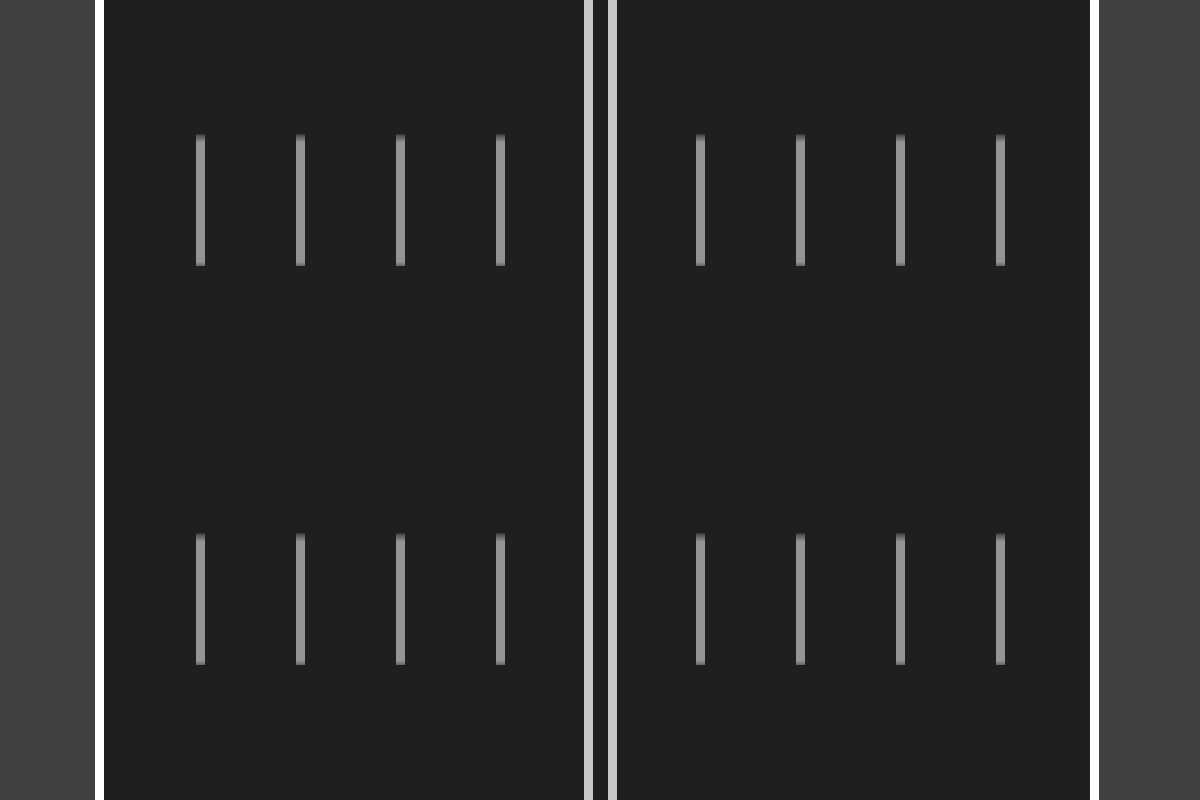
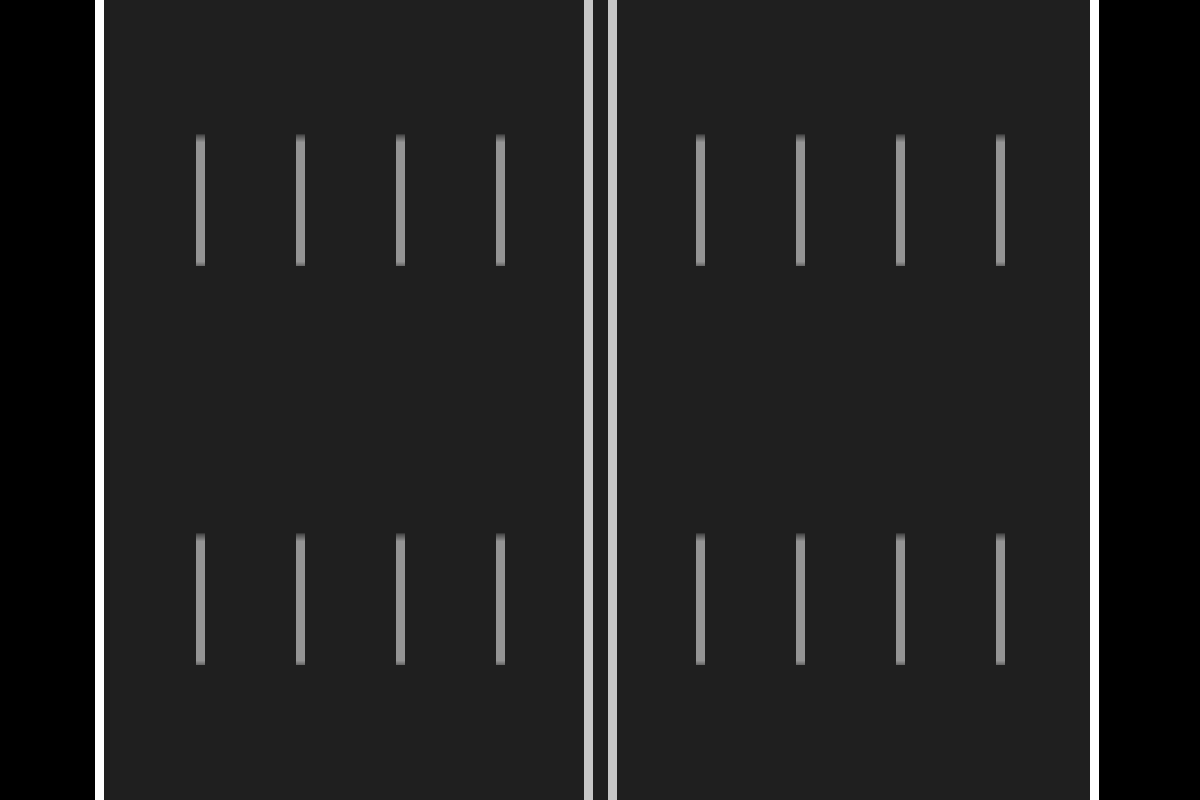
changed background and added gitignore

Changed region(s): [[0.8942, 0.0, 1.0, 1.0], [0.0, 0.0, 0.0925, 1.0]]

diff --git a/TraffiKing_game/trafiiKING.py b/TraffiKing_game/trafiiKING.py
@@ -23,7 +23,7 @@ class Player(pygame.sprite.Sprite):
         self.drag_applier = 2
         self.drag_x = 0
         self.drag_y = 0
-        self.grass_drag = 4
+        self.grass_drag = 3
         self.pos_x = 600 - (self.rect.width / 2)
         self.pos_y = 600
         self.rect.y = self.pos_y
@@ -113,7 +113,7 @@ class Player(pygame.sprite.Sprite):
        
  
         #checking road boundries and aplying drag
-        if (1100 - (self.rect.width/2) < self.rect.x or self.rect.x < 100 - (self.rect.width/2)) and (self.rect.y < 701 - self.rect.height):
+        if ((1100 - (self.rect.width/2) < self.rect.x or self.rect.x < 100 - (self.rect.width/2))) and (self.rect.y < 700 - self.rect.height):
             self.speed_y += self.grass_drag * dt * TARGET_FPS
         
 
@@ -174,6 +174,7 @@ class Obstacle(pygame.sprite.Sprite):
         self.speed = 0
         self.multiplier = multiplier                      # speed point how fast object is falling, so the bigger the speed, the slower object seems to move
         self.spawn_possibilites = available_positions.current_possibilities
+        self.parked_possibilities = [5, 1100, 1105, 15]
         self.random_centerline_offset = random.randint(-20, 20)
         
 
@@ -240,9 +241,16 @@ class Obstacle(pygame.sprite.Sprite):
             self.obst_checker = Obstacle_checker(self.rect.x, self.rect.bottom, self.rect.width, self.speed)
             self.obst_checker.add(obstacle_checker_group)
 
+        elif self.direction == "parked":
+            self.rect.x = self.parked_possibilities[random.randint(0,len(self.parked_possibilities )-1)]
+            if self.rect.x > 500:
+                self.image = pygame.transform.rotate(self.image, 90)
+            else:
+                self.image = pygame.transform.rotate(self.image, -90)
+            self.pos_y = self.rect.y
+            self.obst_checker = None
 
         else:
-
             self.image = pygame.transform.rotate(self.image, 180)
             self.rect.x = self.spawn_possibilites[0][random.randint(0,4)] + self.random_centerline_offset
             self.rect.y = -500
@@ -258,6 +266,11 @@ class Obstacle(pygame.sprite.Sprite):
         #right side
         if self.direction == "up":
             self.pos_y += self.speed * dt * 60
+        
+        #parked
+        elif self.direction == "parked":
+            self.pos_y += spawner.background_image_position_y_speed * dt * TARGET_FPS
+
         #left side
         else:
             self.pos_y +=  self.speed  * dt * 60
@@ -268,17 +281,21 @@ class Obstacle(pygame.sprite.Sprite):
     def update(self):
         self.movement()
         self.destroy()
-        self.obst_checker.update(self.rect.x, self.pos_y + self.rect.height, self.speed)
+        if self.obst_checker:
+            self.obst_checker.update(self.rect.x, self.pos_y + self.rect.height, self.speed)
+
 
     def destroy(self):
         if self.rect.top >= 800: 
             self.kill()
-            self.obst_checker.kill()
+            if self.obst_checker:
+                self.obst_checker.kill()
             Player.scoring(jimmy, 1)
     
     def clean(self):
         self.kill()
-        self.obst_checker.kill()
+        if self.obst_checker:
+            self.obst_checker.kill()
 
 class Obstacle_checker(pygame.sprite.Sprite):
     """Checks if obstacles collide with eachother, by creating rect behind them looking if something is in this rectangle"""
@@ -306,6 +323,8 @@ class Spawner():
         self.available_types = ["truck", "randomcar1", "randomcar2", "randomcar3"] 
         self.background_image_position_y_speed = 15
         self.speedometer_timer = 0
+        self.random_pick = self.available_types[random.randint(0, len(self.available_types)-1)]
+
         
 
     def spawner_update(self):
@@ -659,7 +678,6 @@ class Stat_bar():
                 self.arrow_rotation -= 0.007
                 self.arrow_rotation = round(self.arrow_rotation, 3)
 
-        print(spawner.traffic_speed)
             
 
 
@@ -768,14 +786,15 @@ class Prop_spawner(pygame.sprite.Sprite):
         self.image_left =  pygame.transform.scale(self.image_left, (self.lamp_size ,self.lamp_size))
 
         self.rect_left = pygame.rect.Rect(self.position_left_x, self.position_y, 100, 100)
-        self.hitbox_left = pygame.rect.Rect(54, -1140, 10, 90)
+        self.hitbox_left = pygame.rect.Rect(50, -1060, 20, 30)
 
 
         self.image_right =  pygame.image.load("resources/lamp.png").convert_alpha()
         self.image_right =  pygame.transform.scale(self.image_right, (self.lamp_size ,self.lamp_size))
 
         self.rect_right = pygame.rect.Rect(self.position_right_x, self.position_y, 100, 100)
-        self.hitbox_right = pygame.rect.Rect(1129, -1140, 10, 90)
+        self.hitbox_right = pygame.rect.Rect(1124, -1060, 20, 30)
+
  
     def update(self):
         self.light_rect = pygame.Rect((100,self.rect_left.y), (400, 400))
@@ -793,9 +812,10 @@ class Prop_spawner(pygame.sprite.Sprite):
         if self.rect_left.y >= 2000 or self.rect_right.y >= 2000:
             self.rect_left.y = -400
             self.rect_right.y = -400
-            self.hitbox_left.y = -140
-            self.hitbox_right.y = -140
+            self.hitbox_left.y = -60
+            self.hitbox_right.y = -60
             
+            obstacle_group.add(Obstacle("randomcar1", "parked", 1))
 
         screen.blit(self.image_left, self.rect_left)
         screen.blit(self.image_right, self.rect_right)
@@ -815,8 +835,8 @@ class Prop_spawner(pygame.sprite.Sprite):
 
         self.rect_left.y = -1400
         self.rect_right.y = -1400
-        self.hitbox_left.y = -1140
-        self.hitbox_right.y = -1140
+        self.hitbox_left.y = -1060
+        self.hitbox_right.y = -1060
 
 
 def player_obstacle_collision():
@@ -905,7 +925,7 @@ TARGET_FPS = 60
 current_frames = int(clock.get_fps())
 prev_time = time.time()
 dt = 0
-game_state = "playing"
+game_state = "intro"
 
 #font
 retry_text = Retry_screen_text()
